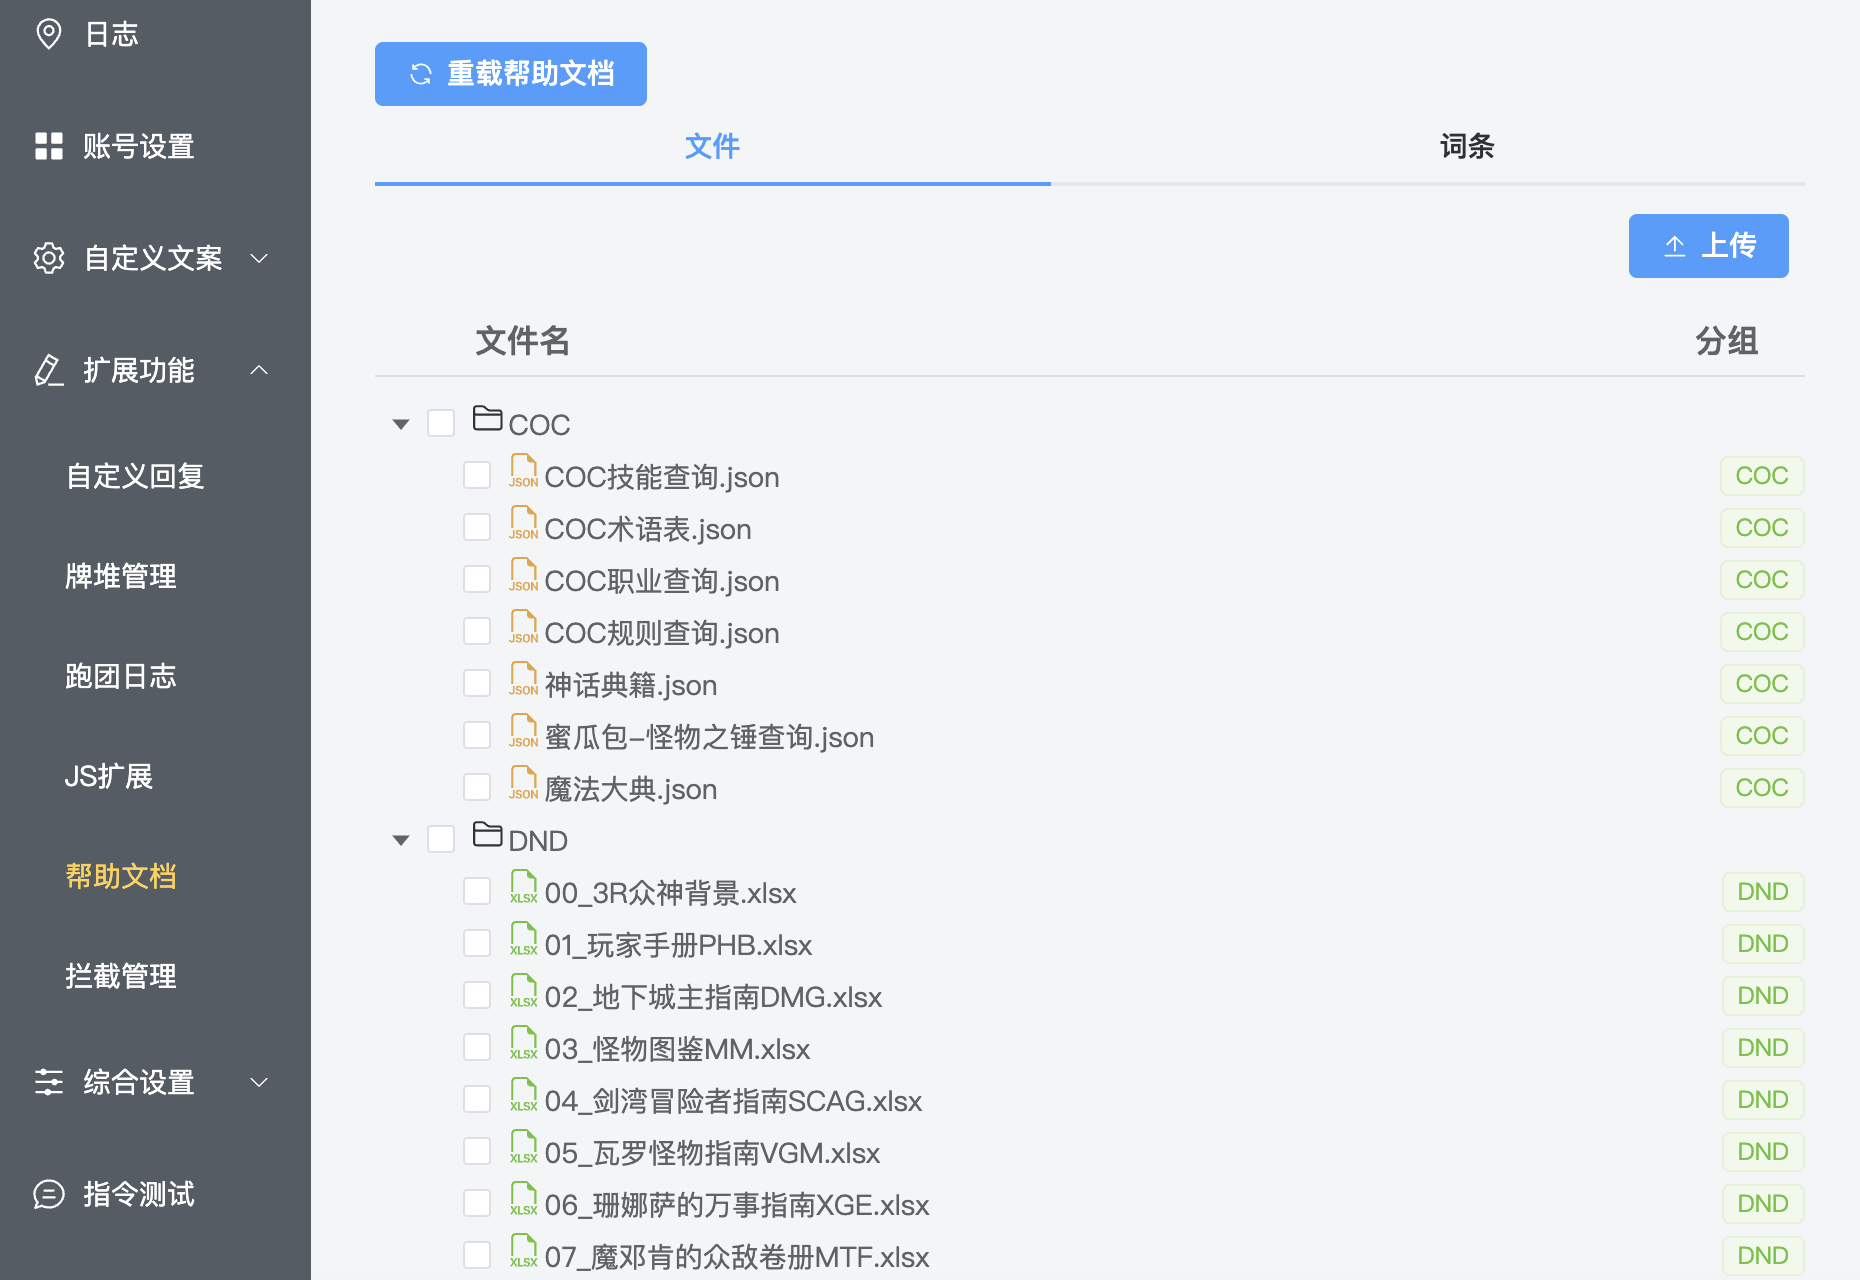
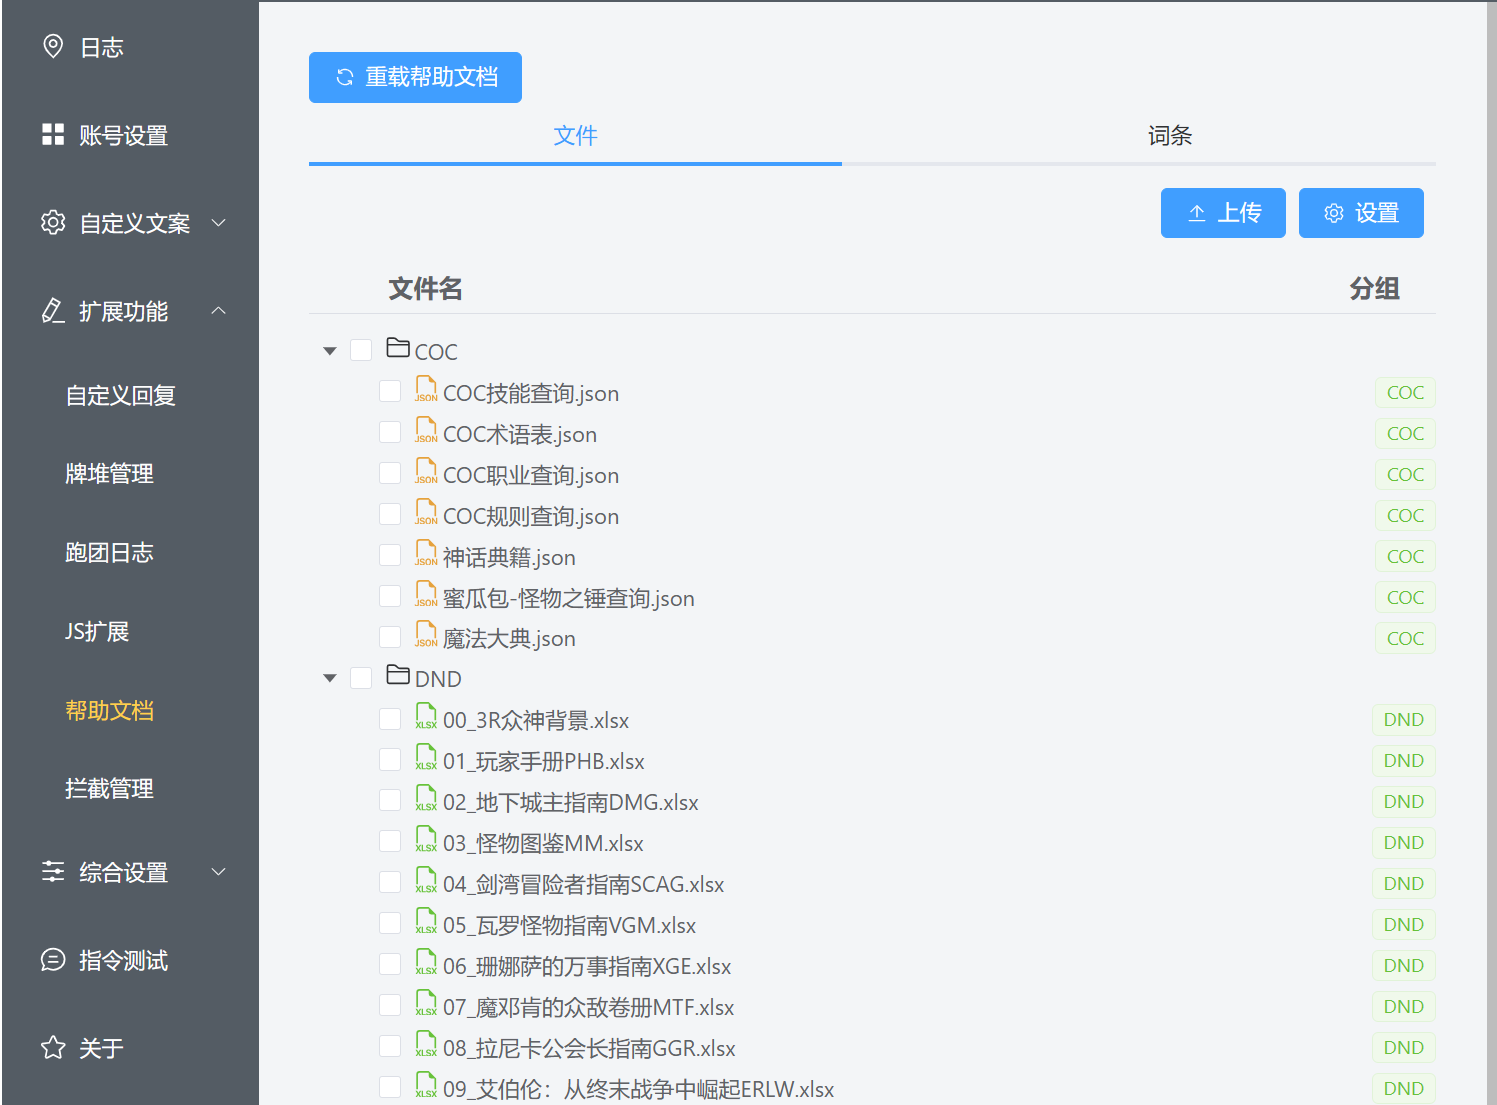
docs: 更新 1.4.2 新增的内容 (#63)
* docs: 更新 1.4.2 新增的内容

1. 自动退群
2. 帮助文档分组别名
3. 设置默认帮助分组
4. coc st录入简化卡
5. ping指令
并添加了两个来自 1.4.1 的TODO
1. 发送者为管理员退群
2. 插件配置项

* refactor: as reviewed

diff --git a/docs/.vuepress/sidebar.ts b/docs/.vuepress/sidebar.ts
@@ -44,7 +44,13 @@ export default sidebar({
             "censor.md",
           ],
         },
-        { text: "综合设置", children: ["ban.md"] },
+        {
+          text: "综合设置",
+          children: [
+            "ban.md",
+            "quit_grp_auto.md",
+          ],
+        },
       ],
     },
   ],

diff --git a/docs/.vuepress/navbar.ts b/docs/.vuepress/navbar.ts
@@ -45,7 +45,10 @@ export default navbar([
       },
       {
         text: "综合设置",
-        children: ["ban.md"],
+        children: [
+          "ban.md",
+          "quit_grp_auto.md",
+        ],
       },
     ],
   },

diff --git a/docs/use/core.md b/docs/use/core.md
@@ -195,7 +195,7 @@ D&D 规则中对 20 面骰的一种补偿骰法。额外骰一次，取较高或
 
 :::: note 示例
 
-::: tabs 
+::: tabs
 
 @tab 优势骰
 
@@ -467,13 +467,42 @@ WOD 骰点规则是一个多轮骰点规则，国内多见于无限团。
 
 ## `.find` 词条查询指令
 
-海豹核心默认搭载了 CoC 的《怪物之锤》、《魔法大典》和 D&D 规则的一系列资料。这些资料被整理成词条，并支持使用此指令进行查询。
+海豹核心默认搭载了 CoC 的《怪物之锤》、《魔法大典》和 D&D 规则的一系列资料。这些资料在海豹的 `data/helpdpc` 目录下的不同文件中被整理成词条，并支持使用此指令进行查询。
 
-`.find <关键字>` 用关键字进行词条查询。
+`.find (#<分组名>) <关键字>` 用关键字进行词条查询；如果提供了分组名，则只在指定分组中进行查询。
+
+「分组名」是指海豹 `data/helpdoc` 目录下的子目录名。对于内置的帮助文档，分组名分别是「COC」和「DND」。
 
 别名：`.查询`
 
 查询功能在不同设备上的实现是不同的。在 x86 设备上，海豹核心使用稍微更多的内存使用全文搜索，这赋予了查询指令强大的获取能力。在其他平台上，由于搜索库的限制，海豹核心使用词条标题模糊搜索。
+
+<Badge type="tip" text="v1.4.2" vertical="middle" /> 从 `v1.4.2` 版本起，你可以在 WebUI 的「扩展功能 - 帮助文档」中设置分组的别名。
+
+### 指定默认查询分组 <Badge type="tip" text="v1.4.2" vertical="middle" />
+
+从 `v1.4.2` 版本起，海豹支持在每个群组中分别设置默认的查询分组。
+
+`.find config --group` 查看当前群组的默认查询分组。
+
+`.find config --group=<分组名>` 设置当前群组的默认查询分组。
+
+`.find config --groupclr` 清除当前群组的默认查询分组。
+
+::: note 示例
+
+<ChatBox :messages="[
+{content: '.find config --group=COC', send: true},
+{content: '指定默认搜索分组为COC'},
+{content: '.find 火球术', send: true},
+{content: '未找到搜索结果'},
+{content: '.find config --groupclr', send: true},
+{content: '已清空默认搜索分组，原分组为COC'},
+{content: '.find 火球术', send: true},
+{content: '[全文搜索]最优先结果:\n词条: PHB法术:火球术'},
+]" />
+
+:::
 
 ### 全文搜索
 
@@ -644,3 +673,49 @@ Master 可以通过这个指令进行回复。目标 ID 可以是群号，也可
 `.welcome show` 查看当前欢迎语
 
 `.welcome set <欢迎语>` 设定欢迎语
+
+## `.ping` 指令响应测试 <Badge type="tip" text="v1.4.2" vertical="middle" />
+
+从 `v1.4.2` 版本起，海豹支持 `.ping` 指令，用于指示海豹回复你一条消息。
+
+`.ping` 海豹回复你一条消息。
+
+:::: info 为什么要有这个指令？
+
+对于绝大多数情况，这个指令似乎都没有实际作用。事实上，这个指令的存在是为了解决 **QQ 官方 Bot 在频道私聊中**的以下问题：
+
+如果你向机器人连续发送 3 条频道私聊消息而没有收到回复，在机器人回复你之前，你将无法继续发送频道私聊消息。
+而机器人并不会主动向你发送消息，这就造成了死锁。
+
+此时，你可以在**频道**中向海豹核心发送 `.ping` 指令，海豹核心会在**频道私聊**中回复你，以打破死锁。
+
+::: tabs
+
+@tab 频道私聊
+
+<ChatBox :messages="[
+{username: 'PL', avatar: '/images/avatar/user1.jpg', content: '我要对这个 NPC 使用心理学'},
+{username: 'KP', avatar: '/images/avatar/user3.jpg', content: '可以', send: true},
+{username: 'KP', avatar: '/images/avatar/user3.jpg', content: '.rah 心理学 @PL', send: true},
+{content: '由<KP>代骰:\n<PL>悄悄进行了一项心理学检定'}
+]"/>
+
+<ChatBox :messages="[
+{content: '我发出第一条消息。', send: true},
+{content: '我发出第二条消息。', send: true},
+{content: '我发出第三条消息，机器人怎么还不理我？', send: true},
+{content: '这时，用户已经无法再发送第四条频道私聊', username: '说明', avatar: '/images/avatar/user2.jpg'},
+{content: '用户去频道公屏发送一个 ping 指令', username: '说明', avatar: '/images/avatar/user2.jpg'},
+{content: 'PONG！这里是海豹核心！'},
+{content: '好耶，我又可以发频道私信了！', send: true},
+]" />
+
+@tab 频道公屏
+
+<ChatBox :messages="[
+{content: '.ping', send: true},
+]"/>
+
+:::
+
+::::

diff --git a/docs/config/helpdoc.md b/docs/config/helpdoc.md
@@ -47,6 +47,9 @@ title: 帮助文档
 
 帮助文档列表以文件树的形式展示。文件夹内部的文档在一级文件夹下平铺展示，最外层的 **一级文件夹名将作为其中所有文档的分组名**，用于精确控制查询范围的分组。
 
+<Badge type="tip" text="v1.4.2" vertical="middle" /> 从 `v1.4.2` 版本起，支持通过指令在每个群组中设置默认搜索分组。
+详见 [使用 - 核心指令](../use/core.md#find-词条查询指令)。
+
 修改帮助文档后，需要点击「重载帮助文档」来刷新。
 
 ::: warning 重载帮助文档
@@ -72,6 +75,14 @@ title: 帮助文档
 **非常不建议你将文档放在这个文件夹中进行管理。** 对指定分组的搜索需要有意义的分组名。
 
 :::
+
+### 为分组添加别名 <Badge type="tip" text="v1.4.2" vertical="middle" />
+
+从 `v1.4.2` 版本起，你可以为每个分组添加若干别名。
+
+![帮助文档分组别名](./images/helpdoc-edit-group.png)
+
+点击页面上的「设置」按钮，将列出现有的所有分组和它们的别名，你可按需要进行编辑。
 
 ### 删除帮助文档
 

diff --git a/docs/config/quit_grp_auto.md b/docs/config/quit_grp_auto.md
@@ -1,0 +1,22 @@
+---
+lang: zh-cn
+title: 自动退出不活跃群组
+---
+
+# 自动退出不活跃群组
+
+::: info 本节内容
+
+本节介绍如何配置你的海豹核心，以自动退出长时间不活跃的 QQ 群组。
+
+:::
+
+<Badge type="tip" text="v1.4.2" vertical="middle" /> 这是 `v1.4.2` 版本新增的功能。
+
+你可以在 WebUI 的「基本设置 - 其他 - 自动退群」中设定一个时间线，单位是 天。
+
+每天凌晨 4 时，海豹核心会检查在每个 QQ 群组中最后一次发送消息的时间。如果未发送消息的天数超过了你的设定，海豹核心会自动从该群组中退出。
+
+退出前，海豹会向通知列表发送一条通知。
+
+将时间线设置为 0 即可关闭自动退群功能。

diff --git a/docs/config/ban.md b/docs/config/ban.md
@@ -46,9 +46,11 @@ title: 黑白名单
 ![黑白名单设置](./images/ban-config.png)
 
 黑名单惩罚：
+
 - 拒绝回复：骰子不回复黑名单用户；
 - 拒绝邀请：骰子自动拒绝黑名单用户的邀请；
 - 退出事发群：比如禁言骰子触发了黑名单事件，会退出禁言的事发群；
 - 使用时立即退出群：有黑名单用户在其他群尝试使用骰子时，骰子会立即退群。
+<!-- TODO 增加 1.4.1 新增的 若发送者为管理员退群，非管理员通告 模式 -->
 
 连带责任：当有用户触发黑名单事件时，对应的群组和邀请人会按 **设置的比例** 增加怒气值。

diff --git a/docs/use/coc7.md b/docs/use/coc7.md
@@ -53,6 +53,8 @@ title: 克苏鲁的呼唤 7 版
 
 将指定属性设定为指定表达式的计算结果。如 `.st 敏捷50 力量3d6*5`。
 
+<Badge type="tip" text="v1.4.2" vertical="middle" /> 从 `v1.4.2` 开始，海豹核心兼容了简化卡格式 `.st <角色名>-<属性><表达式>`，这相当于分别使用 `.nn` 指令设置角色名，然后设定属性值。
+
 ### 更新属性值
 
 `.st <属性>±<表达式>`
